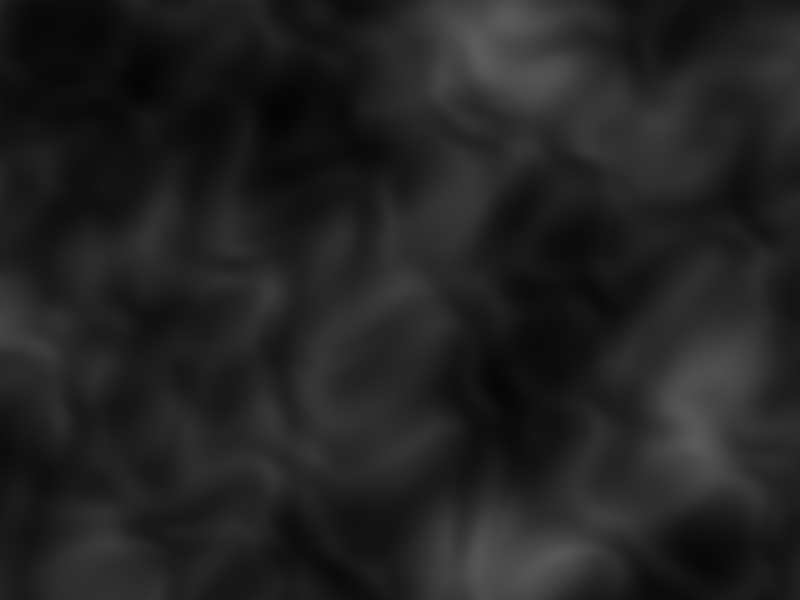
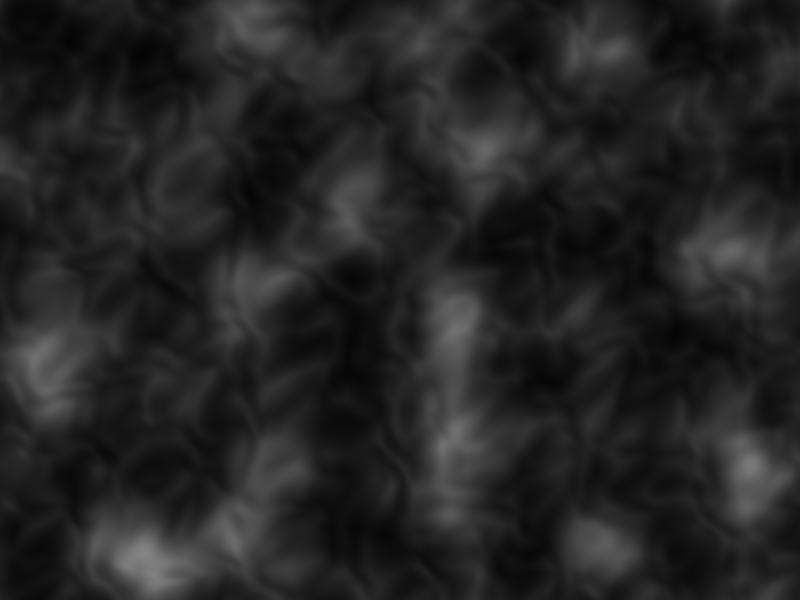
height in track + curvature

diff --git a/prototypes/track-path/script.js b/prototypes/track-path/script.js
@@ -171,7 +171,7 @@ function secondPass (points) {
     );
 
     processedPoints = catRomSpline(processedPoints, {
-        samples: 12,
+        samples: 14,
         knot: 0.33
     });
 
@@ -180,14 +180,17 @@ function secondPass (points) {
     return processedPoints;
 }
 
-function smoothPoints (points, iteration, smoothing) {
+function smoothPoints (points, iteration, smoothing, zSmoothing) {
     var selfMultiplier = 1 - smoothing,
-        neighbourMultiplier = smoothing / 2;
+        neighbourMultiplier = smoothing / 2,
+        selfZMultiplier = 1 - zSmoothing,
+        neighbourZMultiplier = zSmoothing / 2;
 
     for (var i = 0; i < iteration; i++) {
         for (var k = 1; k < points.length - 1; k++) {
             points[k][0] = points[k][0] * selfMultiplier + points[k-1][0] * neighbourMultiplier + points[k+1][0] * neighbourMultiplier;
             points[k][1] = points[k][1] * selfMultiplier + points[k-1][1] * neighbourMultiplier + points[k+1][1] * neighbourMultiplier;
+            points[k][2] = points[k][2] * selfZMultiplier + points[k-1][2] * neighbourZMultiplier + points[k+1][2] * neighbourZMultiplier;
         }
     }
 
@@ -209,14 +212,105 @@ function getTrackLength (points) {
     return sum;
 }
 
-var zoom = 0.9;
+var noise = new noisejs.Noise(rng());
+
+function generateHeight (noise, x, y, size) {
+    var n1 = Math.pow((1 + noise.perlin2(x/200 * size,y/200 * size)) / 2, 2.5),
+        n2 = Math.pow((1 + noise.perlin2(x/100 * size + n1 * 0.6,y/100 * size - n1 * 0.6)) / 2, 1.5 + n1),
+        n3 = Math.pow((1 + noise.perlin2(x/50 * size - n2 * 1.5 + n1 * 0.6,y/50 * size + n2 * 1.5 - n1 * 0.6)) / 2, 1.0 + n2);
+
+    return Math.pow(Math.min((
+        n1 * 0.65 +
+        (0.6 + 0.4 * n1) * n2 * 0.25 +
+        (0.75 + 0.25 * n1) * n3 * 0.25
+    ), 1), 1.5);
+}
+
+function addZData (points) {
+    for (var i = 0; i < points.length; i++) {
+        points[i].push(generateHeight(noise, points[i][0], points[i][1], 200));
+    }
+
+    return points;
+}
+
+function addNData (points) {
+    var a, b, c, nx, ny, nl, rnl;
+    var ab, abl, bc, bcl, ac, acl;
+
+    for (var i = 0; i < points.length; i++) {
+        a = points[(i - 3 + points.length) % points.length];
+        b = points[i];
+        c = points[(i + 3) % points.length];
+
+        ab = [b[0] - a[0], b[1] - a[1]];
+        bc = [c[0] - b[0], c[1] - b[1]];
+        ac = [c[0] - a[0], c[1] - a[1]];
+        abl = Math.sqrt(Math.pow(ab[0], 2) + Math.pow(ab[1], 2));
+        bcl = Math.sqrt(Math.pow(bc[0], 2) + Math.pow(bc[1], 2));
+        acl = Math.sqrt(Math.pow(ac[0], 2) + Math.pow(ac[1], 2));
+        ab[0] /= abl;
+        ab[1] /= abl;
+        bc[0] /= bcl;
+        bc[1] /= bcl;
+        ac[0] /= acl;
+        ac[1] /= acl;
+
+        nx = (bc[0] - ab[0]) * -1;
+        ny = (bc[1] - ab[1]) * -1;
+        nl = Math.sqrt(Math.pow(nx, 2) + Math.pow(ny, 2));
+        nx /= nl;
+        ny /= nl;
+        rnl = ((Math.atan2(ac[1], ac[0]) - Math.atan2(ny, nx) + Math.PI * 4) % (Math.PI * 2)) - Math.PI;
+
+        b.push(nx, ny, Math.min(1, nl), rnl);
+    }
+
+    return points;
+}
+
+function smoothNData (points, iterations) {
+    var a, b, c, l;
+
+    for (var k = 0; k < iterations; k++) {
+        for (var i = 0; i < points.length; i++) {
+            a = points[(i - 1 + points.length) % points.length];
+            b = points[i];
+            c = points[(i + 1) % points.length];
+            b[5] = Math.max(b[5], b[5] * 0.8 + c[5] * 0.1 + a[5] * 0.1);
+        }
+    }
+
+    return points;
+}
+
+var zoom = 0.8;
+var offsetY = 50;
 
 console.time('path generation');
 
 var points = firstPass();
+
+/*
+points = [
+    [0,0],
+    [0.5, 0],
+    [0.5, 0.5],
+    [0, 0.5],
+    [0,0]
+];
+*/
+
 points = normalizePoints(points);
 points = secondPass(points);
-points = smoothPoints(points, 40, 0.4);
+console.log(JSON.stringify(points, null, 2));
+points = addZData(points);
+points = smoothPoints(points, 40, 0.4, 0.1);
+
+points = addNData(points);
+points = smoothNData(points, 50);
+
+console.log(points);
 
 console.log('Track length :', getTrackLength(points));
 
@@ -225,40 +319,85 @@ console.timeEnd('path generation');
 ctx.fillStyle = '#000000';
 ctx.fillRect(0,0,size * 2, size * 2);
 
+
+ctx.fillStyle = '#444444';
+ctx.strokeStyle = '#444444';
+ctx.lineWidth = 1.25;
+
+/*
+for (var i = 0; i < points.length; i++) {
+    var ni = (i + 1) % points.length;
+    ctx.beginPath();
+    ctx.moveTo(size + points[i][0] * size * zoom, size + offsetY + (points[i][1] * size - points[i][2] * 0) * zoom);
+    ctx.lineTo(size + points[i][0] * size * zoom, size + offsetY + (points[i][1] * size - points[i][2] * 300) * zoom);
+    ctx.lineTo(size + points[ni][0] * size * zoom, size + offsetY + (points[ni][1] * size - points[ni][2] * 300) * zoom);
+    ctx.lineTo(size + points[ni][0] * size * zoom, size + offsetY + (points[ni][1] * size - points[ni][2] * 0) * zoom);
+    ctx.fill();
+    ctx.stroke();
+}
+*/
+
 /**/
 
+/*
 ctx.strokeStyle = '#FFFFFF';
 ctx.lineWidth = 7.7;
 ctx.lineCap="round";
 ctx.lineJoin = "round";
 ctx.beginPath();
-ctx.moveTo(size + points[0][0] * size * zoom, size + points[0][1] * size * zoom);
+ctx.moveTo(size + points[0][0] * size * zoom, size + offsetY + (points[0][1] * size - points[0][2] * 300) * zoom);
 for (var i = 1; i < points.length; i++) {
-    ctx.lineTo(size + points[i][0] * size * zoom, size + points[i][1] * size * zoom);
+    ctx.lineTo(size + points[i][0] * size * zoom, size + offsetY + (points[i][1] * size - points[i][2] * 300) * zoom);
 }
 ctx.stroke();
 
 ctx.strokeStyle = '#000000';
 ctx.lineWidth = 3.5;
 ctx.beginPath();
-ctx.moveTo(size + points[0][0] * size * zoom, size + points[0][1] * size * zoom);
+ctx.moveTo(size + points[0][0] * size * zoom, size + offsetY + (points[0][1] * size - points[0][2] * 300) * zoom);
 for (var i = 1; i < points.length; i++) {
-    ctx.lineTo(size + points[i][0] * size * zoom, size + points[i][1] * size * zoom);
+    ctx.lineTo(size + points[i][0] * size * zoom, size + offsetY + (points[i][1] * size - points[i][2] * 300) * zoom);
+}
+ ctx.stroke();
+*/
+
+/*
+ctx.strokeStyle = '#FFFFFF';
+ctx.lineWidth = 2.25;
+ctx.beginPath();
+ctx.moveTo(size + points[0][0] * size * zoom, size + offsetY + (points[0][1] * size - points[0][2] * 300) * zoom);
+for (var i = 1; i < points.length; i++) {
+    ctx.lineTo(size + points[i][0] * size * zoom, size + offsetY + (points[i][1] * size - points[i][2] * 300) * zoom);
 }
 ctx.stroke();
+*/
+
+ctx.strokeStyle = '#FFFF00';
+ctx.lineWidth = 1.25;
+for (var i = 0; i < points.length; i++) {
+    ctx.fillStyle = points[i][6] > 0 ? '#0000FF' : '#FF0000';
+    ctx.fillRect(size + points[i][0] * size * zoom - 4, size + offsetY + (points[i][1] * size - points[i][2] * 300) * zoom - 4, 8, 8);
+
+    ctx.beginPath();
+    ctx.moveTo(size + points[i][0] * size * zoom, size + offsetY + (points[i][1] * size - points[i][2] * 300) * zoom);
+    ctx.lineTo(size + (points[i][0] * size + points[i][3] * 100 * points[i][5]) * zoom, size + offsetY + (points[i][1] * size - points[i][2] * 300 + points[i][4] * 100 * points[i][5]) * zoom);
+    ctx.stroke();
+
+}
 
 /*/
 
 ctx.strokeStyle = '#FFFFFF';
 ctx.fillStyle = '#FFFFFF';
-ctx.lineWidth = 2.5;
+ctx.lineWidth = 5.5;
 ctx.beginPath();
-ctx.moveTo(size + points[0][0] * size * zoom, size + points[0][1] * size * zoom);
+ctx.moveTo(size + points[0][0] * size * zoom, size + offsetY + (points[0][1] * size - points[0][2] * 300) * zoom);
 for (var i = 1; i < points.length; i++) {
-    ctx.lineTo(size + points[i][0] * size * zoom, size + points[i][1] * size * zoom);
+    ctx.lineTo(size + points[i][0] * size * zoom, size + offsetY + (points[i][1] * size - points[i][2] * 300) * zoom);
     //ctx.fillRect(size + points[i][0] * size * zoom - 4, size + points[i][1] * size * zoom - 4, 8, 8);
 }
 ctx.stroke();
+
 
 /**/
 
@@ -266,6 +405,6 @@ ctx.stroke();
 ctx.fillStyle = '#FF0000';
 ctx.lineWidth = 2.;
 ctx.beginPath();
-ctx.arc(size + points[0][0] * size * zoom, size + points[0][1] * size * zoom, 9.5, 0, 2 * Math.PI, false);
+ctx.arc(size + points[0][0] * size * zoom, size + offsetY + (points[0][1] * size - points[0][2] * 300) * zoom, 9.5, 0, 2 * Math.PI, false);
 ctx.fill();
 ctx.stroke();

diff --git a/prototypes/track-path/vendors/noisejs.min.js b/prototypes/track-path/vendors/noisejs.min.js
@@ -1,0 +1,1 @@
+!function(t){if("object"==typeof exports&&"undefined"!=typeof module)module.exports=t();else if("function"==typeof define&&define.amd)define([],t);else{var r;r="undefined"!=typeof window?window:"undefined"!=typeof global?global:"undefined"!=typeof self?self:this,r.noisejs=t()}}(function(){return function t(r,o,e){function n(f,a){if(!o[f]){if(!r[f]){var d="function"==typeof require&&require;if(!a&&d)return d(f,!0);if(i)return i(f,!0);var s=new Error("Cannot find module '"+f+"'");throw s.code="MODULE_NOT_FOUND",s}var u=o[f]={exports:{}};r[f][0].call(u.exports,function(t){var o=r[f][1][t];return n(o?o:t)},u,u.exports,t,r,o,e)}return o[f].exports}for(var i="function"==typeof require&&require,f=0;f<e.length;f++)n(e[f]);return n}({1:[function(t,r,o){!function(t){function r(t){function r(t,r,o){this.x=t,this.y=r,this.z=o}r.prototype.dot2=function(t,r){return this.x*t+this.y*r},r.prototype.dot3=function(t,r,o){return this.x*t+this.y*r+this.z*o},this.grad3=[new r(1,1,0),new r(-1,1,0),new r(1,-1,0),new r(-1,-1,0),new r(1,0,1),new r(-1,0,1),new r(1,0,-1),new r(-1,0,-1),new r(0,1,1),new r(0,-1,1),new r(0,1,-1),new r(0,-1,-1)],this.p=[151,160,137,91,90,15,131,13,201,95,96,53,194,233,7,225,140,36,103,30,69,142,8,99,37,240,21,10,23,190,6,148,247,120,234,75,0,26,197,62,94,252,219,203,117,35,11,32,57,177,33,88,237,149,56,87,174,20,125,136,171,168,68,175,74,165,71,134,139,48,27,166,77,146,158,231,83,111,229,122,60,211,133,230,220,105,92,41,55,46,245,40,244,102,143,54,65,25,63,161,1,216,80,73,209,76,132,187,208,89,18,169,200,196,135,130,116,188,159,86,164,100,109,198,173,186,3,64,52,217,226,250,124,123,5,202,38,147,118,126,255,82,85,212,207,206,59,227,47,16,58,17,182,189,28,42,223,183,170,213,119,248,152,2,44,154,163,70,221,153,101,155,167,43,172,9,129,22,39,253,19,98,108,110,79,113,224,232,178,185,112,104,218,246,97,228,251,34,242,193,238,210,144,12,191,179,162,241,81,51,145,235,249,14,239,107,49,192,214,31,181,199,106,157,184,84,204,176,115,121,50,45,127,4,150,254,138,236,205,93,222,114,67,29,24,72,243,141,128,195,78,66,215,61,156,180],this.perm=new Array(512),this.gradP=new Array(512),this.seed(t||0)}function o(t){return t*t*t*(t*(6*t-15)+10)}function e(t,r,o){return(1-o)*t+o*r}r.prototype.seed=function(t){t>0&&t<1&&(t*=65536),t=Math.floor(t),t<256&&(t|=t<<8);for(var r=this.p,o=0;o<256;o++){var e;e=1&o?r[o]^255&t:r[o]^t>>8&255;var n=this.perm,i=this.gradP;n[o]=n[o+256]=e,i[o]=i[o+256]=this.grad3[e%12]}};var n=.5*(Math.sqrt(3)-1),i=(3-Math.sqrt(3))/6,f=1/3,a=1/6;r.prototype.simplex2=function(t,r){var o,e,f,a,d,s=(t+r)*n,u=Math.floor(t+s),h=Math.floor(r+s),p=(u+h)*i,l=t-u+p,v=r-h+p;l>v?(a=1,d=0):(a=0,d=1);var c=l-a+i,y=v-d+i,w=l-1+2*i,M=v-1+2*i;u&=255,h&=255;var m=this.perm,x=this.gradP,g=x[u+m[h]],q=x[u+a+m[h+d]],P=x[u+1+m[h+1]],b=.5-l*l-v*v;b<0?o=0:(b*=b,o=b*b*g.dot2(l,v));var N=.5-c*c-y*y;N<0?e=0:(N*=N,e=N*N*q.dot2(c,y));var O=.5-w*w-M*M;return O<0?f=0:(O*=O,f=O*O*P.dot2(w,M)),70*(o+e+f)},r.prototype.simplex3=function(t,r,o){var e,n,i,d,s,u,h,p,l,v,c=(t+r+o)*f,y=Math.floor(t+c),w=Math.floor(r+c),M=Math.floor(o+c),m=(y+w+M)*a,x=t-y+m,g=r-w+m,q=o-M+m;x>=g?g>=q?(s=1,u=0,h=0,p=1,l=1,v=0):x>=q?(s=1,u=0,h=0,p=1,l=0,v=1):(s=0,u=0,h=1,p=1,l=0,v=1):g<q?(s=0,u=0,h=1,p=0,l=1,v=1):x<q?(s=0,u=1,h=0,p=0,l=1,v=1):(s=0,u=1,h=0,p=1,l=1,v=0);var P=x-s+a,b=g-u+a,N=q-h+a,O=x-p+2*a,j=g-l+2*a,z=q-v+2*a,A=x-1+3*a,D=g-1+3*a,E=q-1+3*a;y&=255,w&=255,M&=255;var U=this.perm,_=this.gradP,C=_[y+U[w+U[M]]],F=_[y+s+U[w+u+U[M+h]]],L=_[y+p+U[w+l+U[M+v]]],T=_[y+1+U[w+1+U[M+1]]],k=.5-x*x-g*g-q*q;k<0?e=0:(k*=k,e=k*k*C.dot3(x,g,q));var B=.5-P*P-b*b-N*N;B<0?n=0:(B*=B,n=B*B*F.dot3(P,b,N));var G=.5-O*O-j*j-z*z;G<0?i=0:(G*=G,i=G*G*L.dot3(O,j,z));var H=.5-A*A-D*D-E*E;return H<0?d=0:(H*=H,d=H*H*T.dot3(A,D,E)),32*(e+n+i+d)},r.prototype.perlin2=function(t,r){var n=Math.floor(t),i=Math.floor(r);t-=n,r-=i,n=255&n,i=255&i;var f=this.perm,a=this.gradP,d=a[n+f[i]].dot2(t,r),s=a[n+f[i+1]].dot2(t,r-1),u=a[n+1+f[i]].dot2(t-1,r),h=a[n+1+f[i+1]].dot2(t-1,r-1),p=o(t);return e(e(d,u,p),e(s,h,p),o(r))},r.prototype.perlin3=function(t,r,n){var i=Math.floor(t),f=Math.floor(r),a=Math.floor(n);t-=i,r-=f,n-=a,i=255&i,f=255&f,a=255&a;var d=this.perm,s=this.gradP,u=s[i+d[f+d[a]]].dot3(t,r,n),h=s[i+d[f+d[a+1]]].dot3(t,r,n-1),p=s[i+d[f+1+d[a]]].dot3(t,r-1,n),l=s[i+d[f+1+d[a+1]]].dot3(t,r-1,n-1),v=s[i+1+d[f+d[a]]].dot3(t-1,r,n),c=s[i+1+d[f+d[a+1]]].dot3(t-1,r,n-1),y=s[i+1+d[f+1+d[a]]].dot3(t-1,r-1,n),w=s[i+1+d[f+1+d[a+1]]].dot3(t-1,r-1,n-1),M=o(t),m=o(r),x=o(n);return e(e(e(u,v,M),e(h,c,M),x),e(e(p,y,M),e(l,w,M),x),m)},t.Noise=r}("undefined"==typeof r?this:r.exports)},{}]},{},[1])(1)});

diff --git a/prototypes/heightmap/index.js b/prototypes/heightmap/index.js
@@ -4,27 +4,31 @@ var PNG = require('pngjs').PNG,
     Noise = require('noisejs').Noise,
     fs = require('fs');
 
-var noise = new Noise(0.5);
-
 var image = new PNG({
     width:800,
     height:600
 });
 
-var size = 1;
+var noise = new Noise(0.5);
+
+function generateHeight (noise, x, y, size) {
+    var n1 = Math.pow((1 + noise.perlin2(x/200 * size,y/200 * size)) / 2, 2.5),
+        n2 = Math.pow((1 + noise.perlin2(x/100 * size + n1 * 0.6,y/100 * size - n1 * 0.6)) / 2, 1.5 + n1),
+        n3 = Math.pow((1 + noise.perlin2(x/50 * size - n2 * 1.5 + n1 * 0.6,y/50 * size + n2 * 1.5 - n1 * 0.6)) / 2, 1.0 + n2);
+
+    return Math.pow(Math.min((
+        n1 * 0.65 +
+        (0.6 + 0.4 * n1) * n2 * 0.25 +
+        (0.75 + 0.25 * n1) * n3 * 0.25
+    ), 1), 1.5);
+}
+
+var size = 2;
 
 for (var y = 0; y < image.height; y++) {
     for (var x = 0; x < image.width; x++) {
         var idx = (image.width * y + x) << 2;
-
-        var n1 = Math.pow((1 + noise.perlin2(x/200 * size,y/200 * size)) / 2, 2.5);
-        var n2 = Math.pow((1 + noise.perlin2(x/100 * size + n1 * 0.6,y/100 * size - n1 * 0.6)) / 2, 1.5 + n1);
-        var n3 = Math.pow((1 + noise.perlin2(x/50 * size - n2 * 1.5 + n1 * 0.6,y/50 * size + n2 * 1.5 - n1 * 0.6)) / 2, 1.0 + n2);
-        var col = Math.pow(Math.min((
-            n1 * 0.65 +
-            (0.6 + 0.4 * n1) * n2 * 0.25 +
-            (0.75 + 0.25 * n1) * n3 * 0.25
-        ), 1), 1.5) * 0xFF | 0;
+        var col = generateHeight(noise, x, y, size) * 0xFF | 0;
 
         image.data[idx] = col;
         image.data[idx + 1] = col;

diff --git a/prototypes/track-path/index.html b/prototypes/track-path/index.html
@@ -19,6 +19,7 @@
     <body>
         <canvas id="canvas" width="1000" height="1000"></canvas>
         <script src="vendors/seed-random.min.js"></script>
+        <script src="vendors/noisejs.min.js"></script>
         <script src="vendors/cat-rom-spline.min.js"></script>
         <script src="script.js"></script>
     </body>
